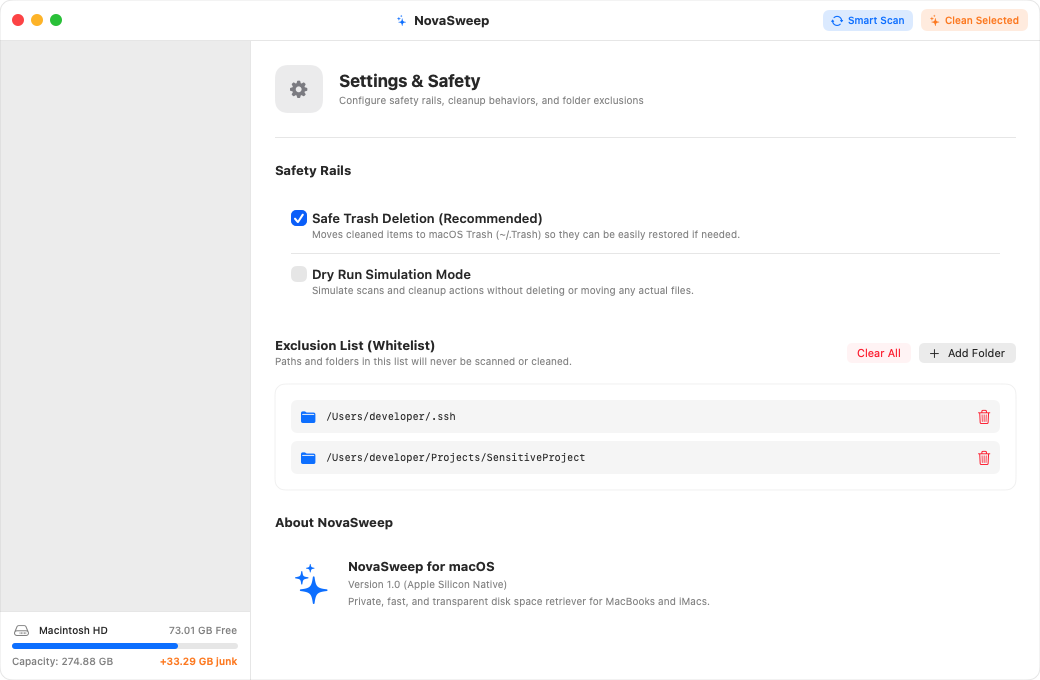
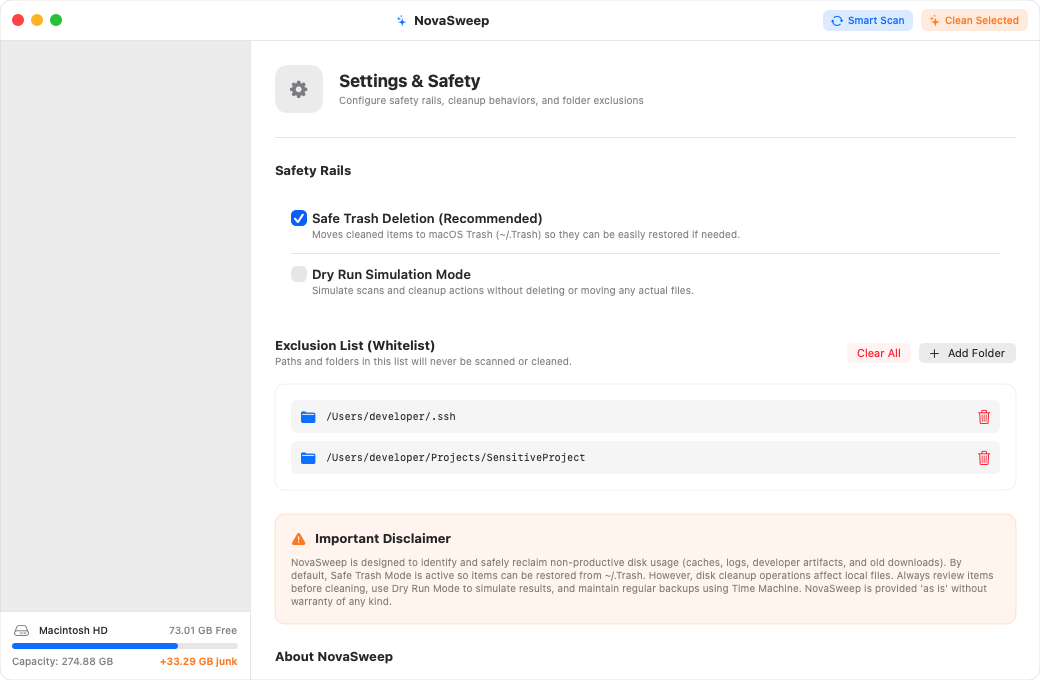
docs: add safety disclaimer to README and in-app Settings view

Changed region(s): [[0.2462, 0.7412, 0.9538, 0.8956], [0.2462, 0.9574, 0.3692, 0.9882]]

diff --git a/src/Views/SettingsView.swift b/src/Views/SettingsView.swift
@@ -131,6 +131,25 @@ public struct SettingsView: View {
                     }
                 }
 
+                // Disclaimer & Safety Notice
+                VStack(alignment: .leading, spacing: 10) {
+                    HStack(spacing: 8) {
+                        Image(systemName: "exclamationmark.triangle.fill")
+                            .foregroundColor(.orange)
+                        Text("Important Disclaimer")
+                            .font(.headline)
+                    }
+
+                    Text("NovaSweep is designed to identify and safely reclaim non-productive disk usage (caches, logs, developer artifacts, and old downloads). By default, Safe Trash Mode is active so items can be restored from ~/.Trash. However, disk cleanup operations affect local files. Always review items before cleaning, use Dry Run Mode to simulate results, and maintain regular backups using Time Machine. NovaSweep is provided 'as is' without warranty of any kind.")
+                        .font(.caption)
+                        .foregroundColor(.secondary)
+                        .fixedSize(horizontal: false, vertical: true)
+                }
+                .padding()
+                .frame(maxWidth: .infinity, alignment: .leading)
+                .background(RoundedRectangle(cornerRadius: 10).fill(Color.orange.opacity(0.08)))
+                .overlay(RoundedRectangle(cornerRadius: 10).stroke(Color.orange.opacity(0.2), lineWidth: 1))
+
                 // About Card
                 VStack(alignment: .leading, spacing: 12) {
                     Text("About NovaSweep")

diff --git a/README.md b/README.md
@@ -149,3 +149,21 @@ Or rebuild anytime from source:
 cd ~/Projects/NovaSweep
 ./build.sh
 ```
+
+---
+
+## ⚠ Disclaimer
+
+NovaSweep is an open-source utility designed to help users identify and retrieve disk space occupied by transient caches, build artifacts, system logs, and unused files.
+
+* **Review Before Deletion**: While NovaSweep incorporates robust safety rails (`SystemGuard`, TCC privacy compliance, subpath-aware whitelisting, and a default Safe Trash mode), deleting files is an important operation. Please review selected items before executing a clean.
+* **Dry Run Mode**: If you are uncertain about what will be cleaned, enable **Dry Run Simulation Mode** in Settings or from the Scan menu to simulate the cleanup without modifying any files.
+* **Backups Recommended**: It is always recommended practice to maintain regular system backups using Apple Time Machine or an external drive.
+* **No Warranty**: This software is provided "as is", without warranty of any kind, express or implied. In no event shall the authors or copyright holders be liable for any claim, damages, or other liability arising from the use of this software.
+
+---
+
+## 📄 License
+
+This project is licensed under the MIT License - see the [LICENSE](LICENSE) file for details.
+
